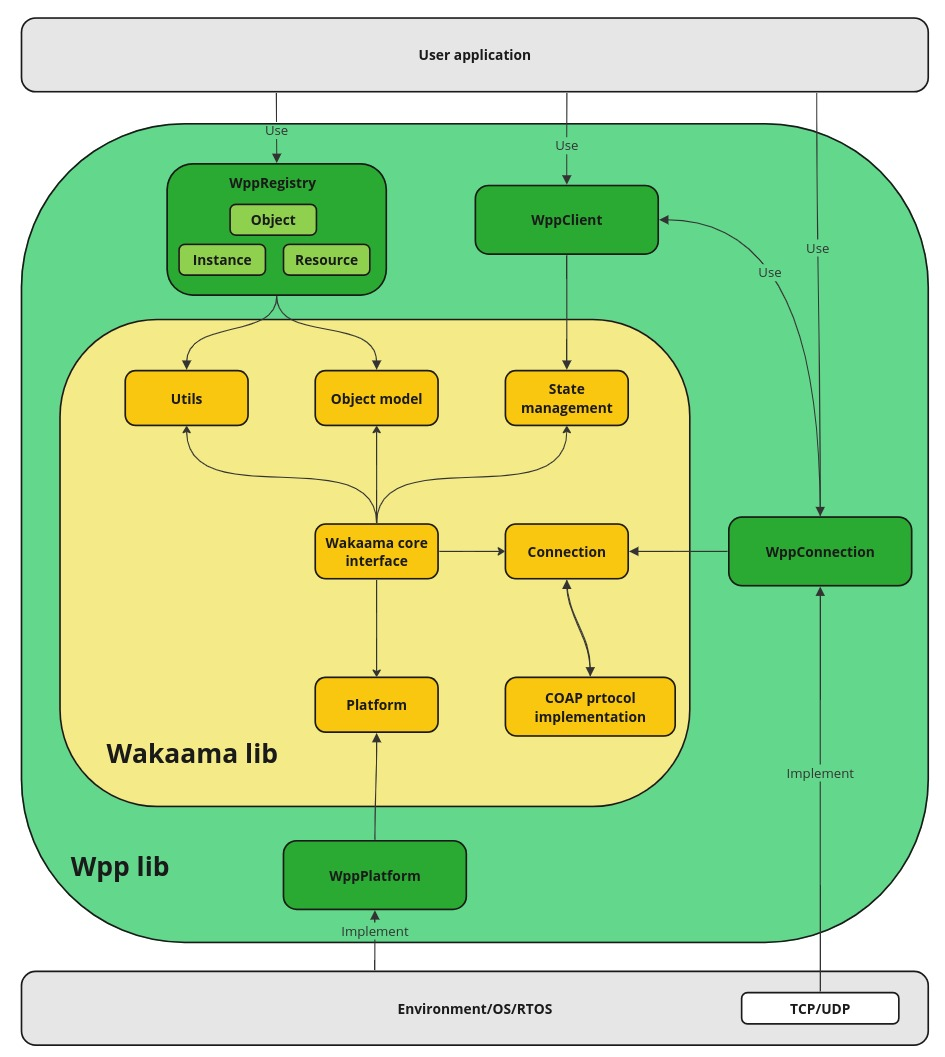
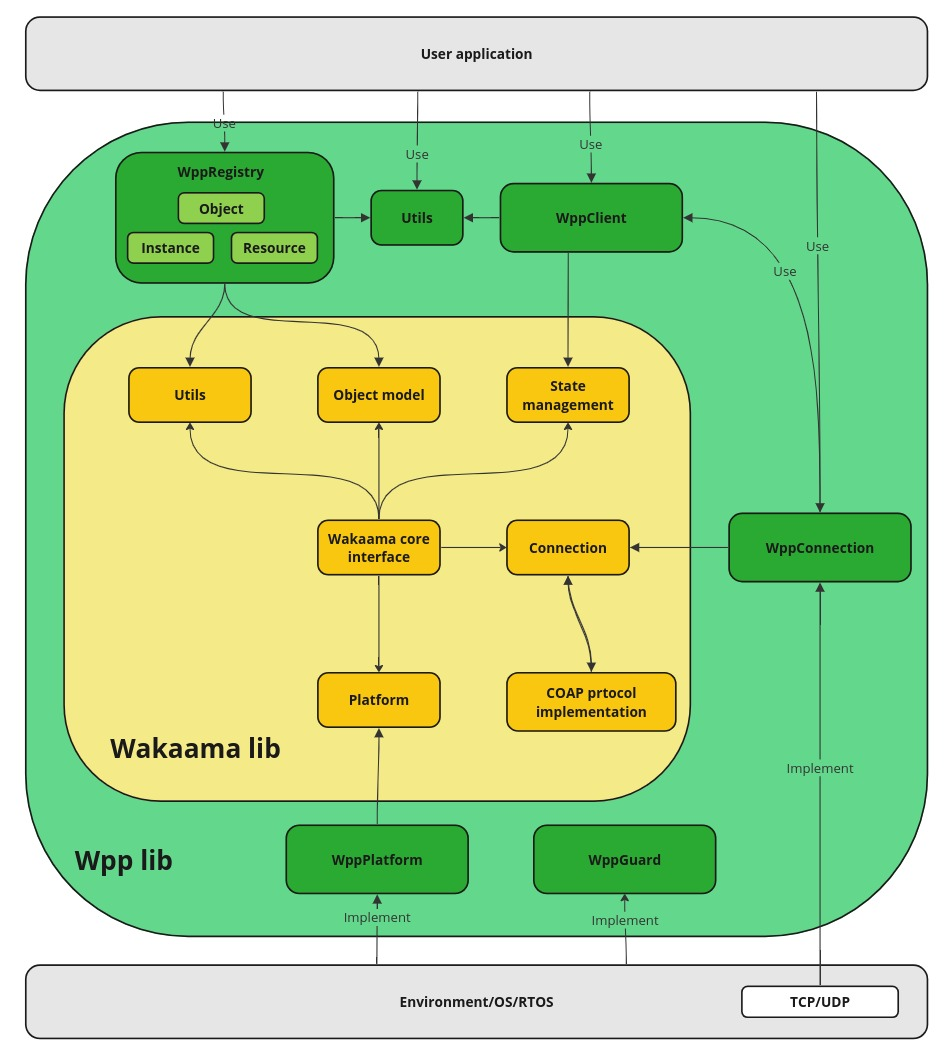
SN-1255 First version of description for architecture

diff --git a/docs/description/architecture.md b/docs/description/architecture.md
@@ -1,12 +1,9 @@
-\page architecture_tag
-
-## Architecture Description
-
------------
+\page architecture_tag Architecture Description
 
 - [Overview](@ref arch_overview)
 - [Components](@ref arch_components)
 - [User Interfaces](@ref arch_user_interfaces)
+- [Integration and Flexibility](@ref arch_integration_and_flexibility)
 - [Sumary](@ref arch_summary)
 
 ### Overview {#arch_overview}
@@ -25,7 +22,7 @@ Since **Wpp** is built upon the [**Wakaama**](https://github.com/eclipse/wakaama
 
 3. **Object Registry (wpp::WppRegistry)**: A crucial component that functions as a registry for available LwM2M objects. It manages the creation and initialization of objects and allows the user to create Instances and manage their resources.
 
-4. **Communication (wpp::WppConnection)**: It defines the interface for establishing connections with the server and handling data transmission.
+4. **Connection (wpp::WppConnection)**: It defines the interface for establishing connections with the server and handling data transmission.
 
 5. **Platform (wpp::WppPlatform wpp::WppGuard)**: This defines the interface for environment-dependent functions like memory allocation, logs printing, and time retrieval, and is entirely implemented by the user.
 
@@ -36,19 +33,23 @@ The diagram below shows the common **Wpp** components with their dependencies on
 \image html images/wpp_dependencies_from_wakaama.jpg width=650px
 
 ### User Interfaces {#arch_user_interfaces}
-Wpp includes three main interfaces:
 
-1. **WppConnection**: Implemented by the user, it enables the opening of a connection with the server and facilitates data transfer.
+The main interface of the library consists of two main parts:
+- **Object registry management interface.** Which is used by the user to initialize the client, gain access to the object register, and manage objects. It consists from the next interfaces:
+  - **Client state management interface.** Used by the user to initialize the client, get its state, access to registry, and manage registration. It consists from **wpp::WppClient** class which is implemented as singleton, and it is the main entry point through which interaction with the client takes place.
+  - **Registry management interface.** Used by the user to gain access to the objects in the registry, register build-in objects, and get their state. It consists from **wpp::WppRegistry** class which is part of **wpp::WppClient**.
+  - **Object management interface.** Used by the user to gain access to the objects state, instances, objects business logic, and internal data. It consists from **wpp::Object**, **wpp::Instance** classes, access to **wpp::Object** can be retreived through **wpp::WppRegistry** class.
+- **Platform dependent interface.** It is used by the **Wpp** and must be implemented by the user or platform. It includes an interface
+for establishing connection, data transfer, and platform-dependent functionality like: get time, print logs, resource access guard. It consists from the next classes: **wpp::WppConnection**, **wpp::WppPlatform**, **wpp::WppGuard**.
 
-2. **WppPlatform**: Also implemented by the user, it allows Wpp to receive the current system time and send logs.
+\image html images/wpp_relationship_and_structure.jpg width=650px
 
-3. **WppClient**: Processes the internal state of the object registry and provides access to WppRegistry, which contains implemented objects.
+One more diagram.
 
-#### LwM2M Protocol and Proxy Objects
-Wpp adheres to the principles of the LwM2M protocol, where interaction occurs between proxy objects on the server side and their real representations on the client side. Proxy objects do not implement the internal logic of client system components but act as their representatives, adhering to the standards defined for LwM2M objects.
+\image html images/wpp_simplified_structure_with_deps.png width=950px
 
-#### Integration and Flexibility
-Wpp's architecture allows for easy integration into new environments and the possibility to redefine interfaces as per environmental requirements. This flexibility is attributed to the absence of external dependencies, as Wpp defines all input and output interfaces, and the environment implements them.
+### Integration and Flexibility {#arch_integration_and_flexibility}
+**Wpp's** architecture allows for easy integration into new environments and the possibility to implementation **Platform dependent interface** as per environmental requirements. This flexibility is attributed to the absence of external dependencies, as **Wpp** defines all input and output interfaces, and the environment implements them. For integration to new environment user should implement the next interfaces: **wpp::WppConnection**, **wpp::WppPlatform**, **wpp::WppGuard**. Example can be found in the [**platform**](../../examples/platform) folder.
 
 ### Summary {#arch_summary}
 The architecture of **WakaamaPlus (Wpp)** is a well-structured framework that provides a robust platform for the development and implementation of LwM2M client applications. It maintains a balance between high-level functionality and control, and is designed to be flexible and adaptable to various user and environmental needs.
